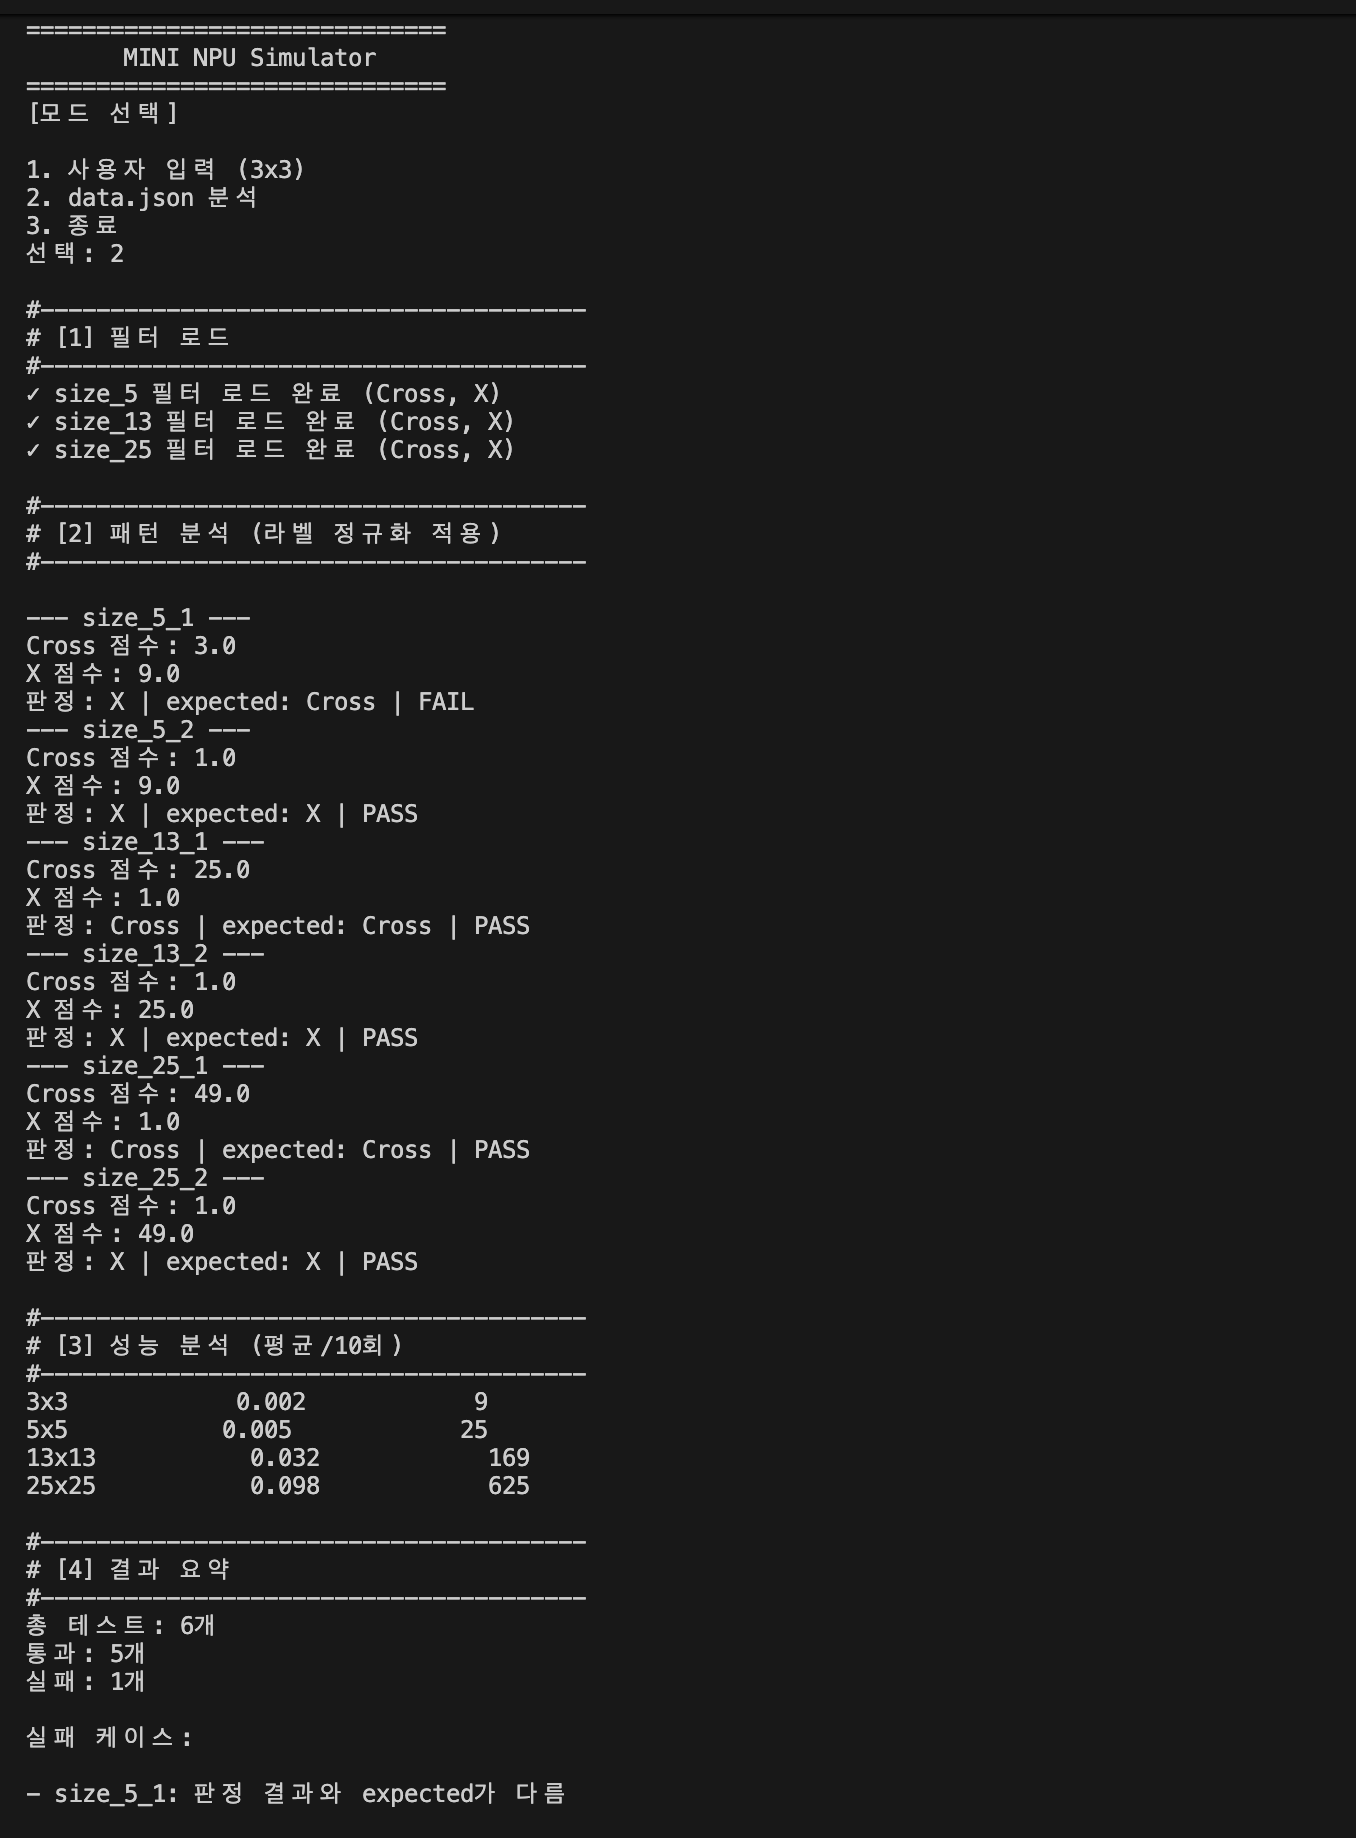
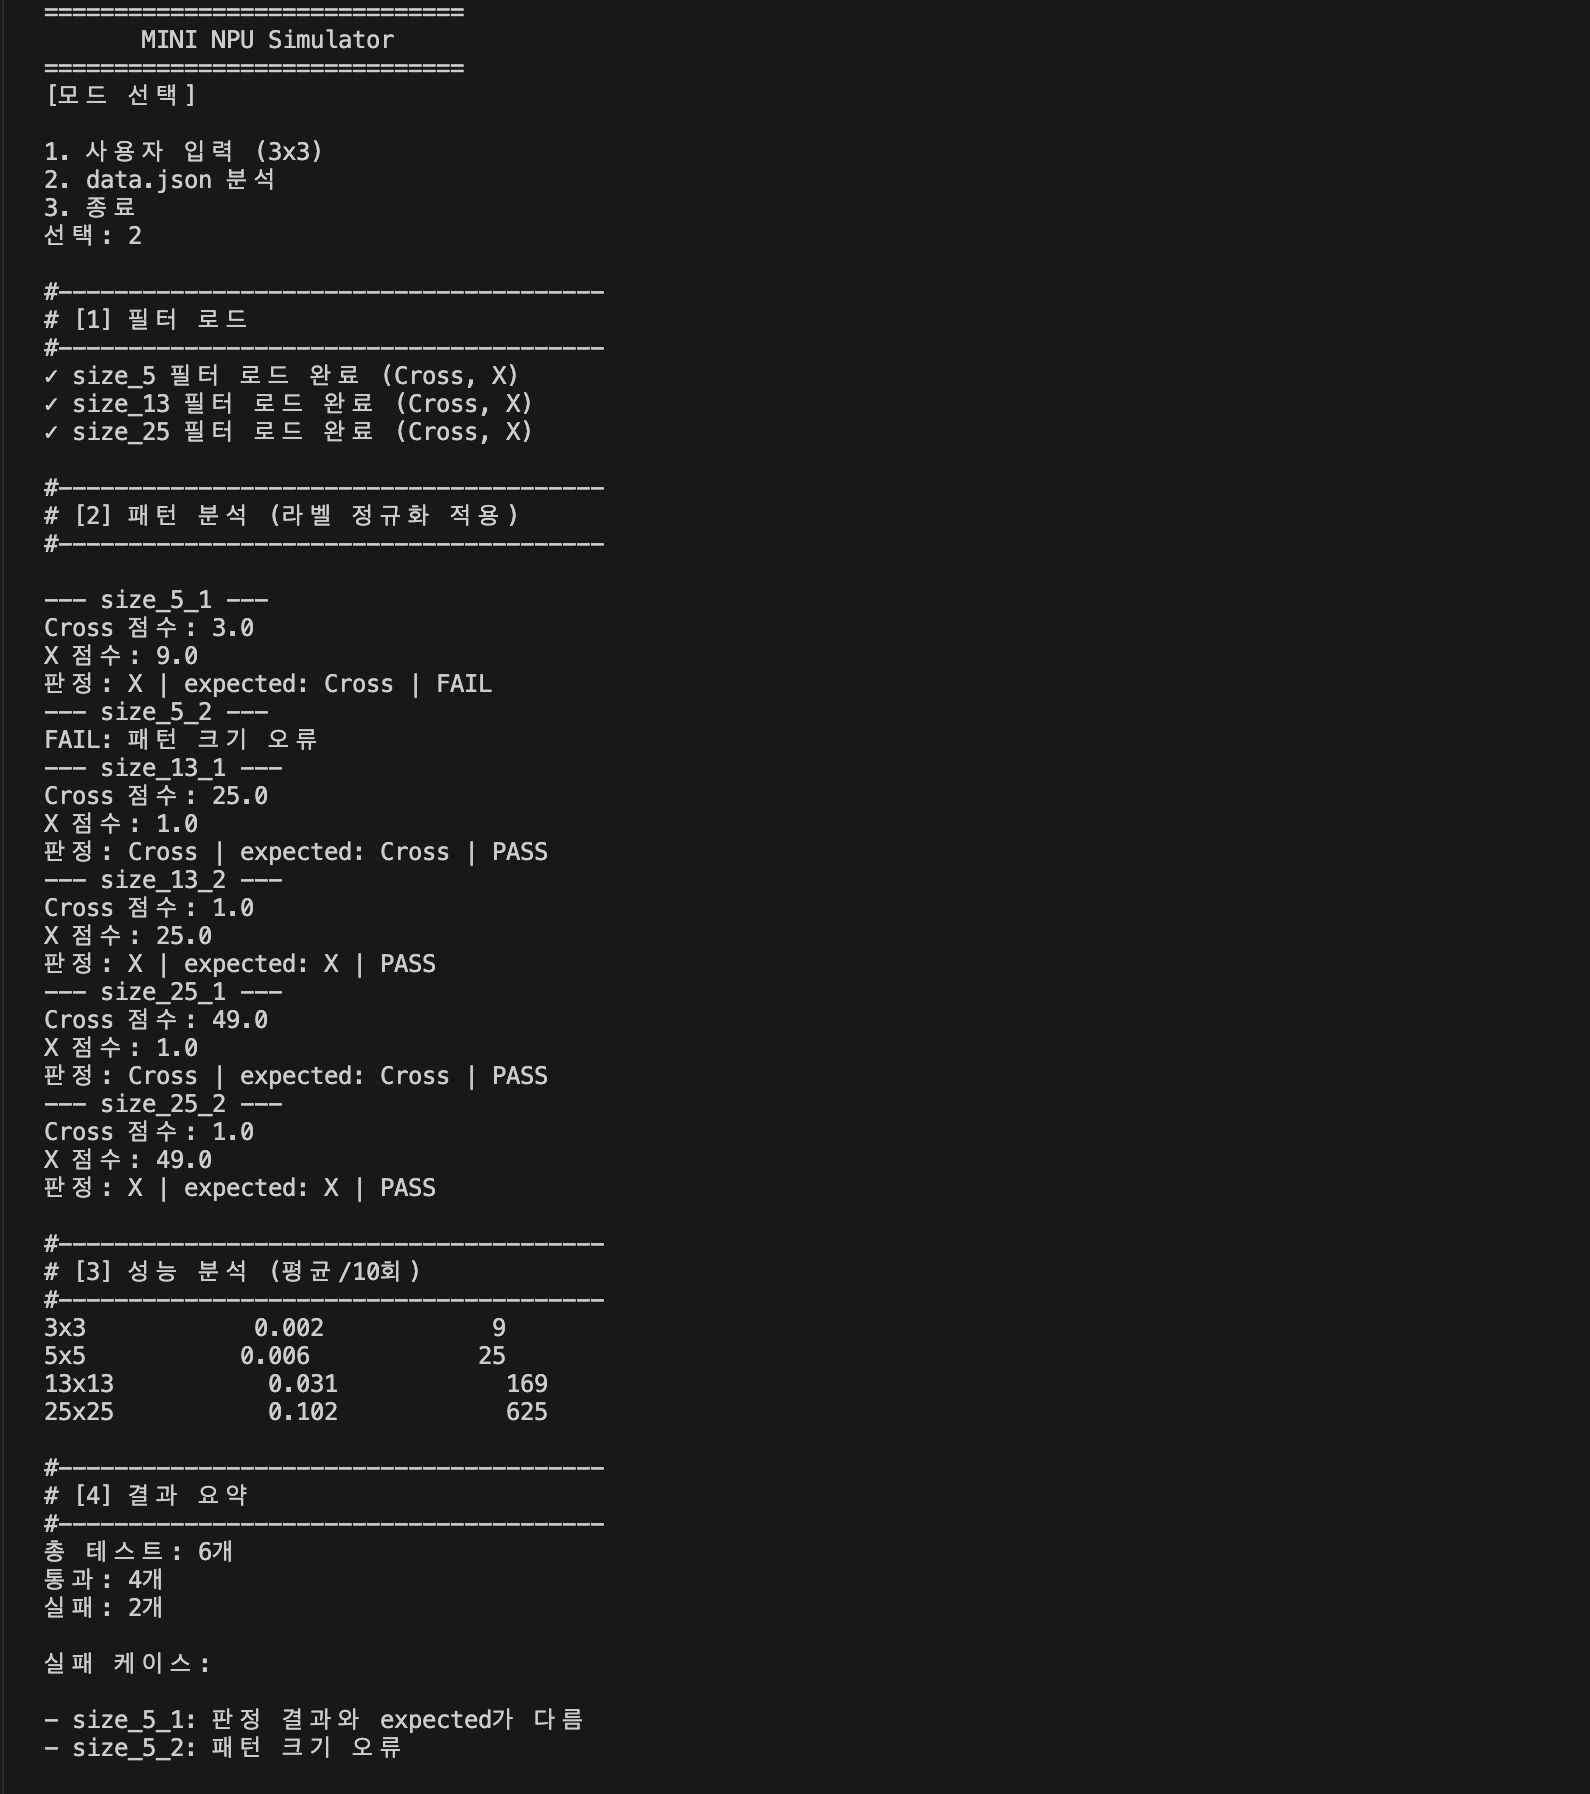
readmd.md fixed and img added

diff --git a/README.md b/README.md
@@ -37,15 +37,15 @@ data.json의 “키 규칙/라벨 규칙”을 해석하고, 프로그램 내부
 # 4. 결과 리포트
 ## 1) 1번 사용자 입력(3x3) 실행
 ### 1) 성공 케이스
-<<<<<<< HEAD
-<<<<<<< HEAD
-![](images/img_01.png)
+- 2개의 필터를 생성하고, 1개의 패턴을 입력하여 어느 케이스애 가까운지 결과값을 보여준다.
+![](images/img_02.png)
 ### 2) 실패 케이스
+- 필터와 패턴 모두 동일한 값을 가질 때 MAC 계산에서 차이를 가지지 못하므로 '판정 불가' 로 차리된다.
 ![](images/img_01.png)
-=======
-(images/img_02.png)
-### 2) 실패 케이스
-(images/omg_01.png)
->>>>>>> 16e794c (readme.me fixed)
 ## 2. data.json 분석 실행
+### 1) Pass 처리
+- 테스트 데이터 별로 정답이 존재하고, json 파일로부터 읽어온 필터를 통해 MAC 계산을 했을 때 정답과 일치하면 pass 로 처리한다.
+### 2) Fail 처리
+- MAC 연산의 결과와 정답이 다를 경우 expected 와 다르다는 설명과 함께 Fail로 처리
+- 필터 사이즈와 테스트 데이터의 사이즈가 다를 경우 Fail 처리  
 ![](images/img_03.png)
